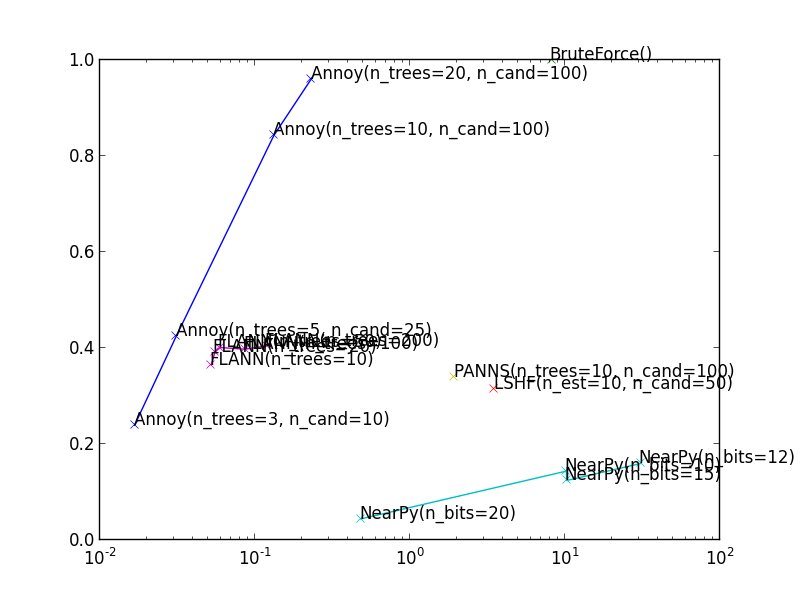
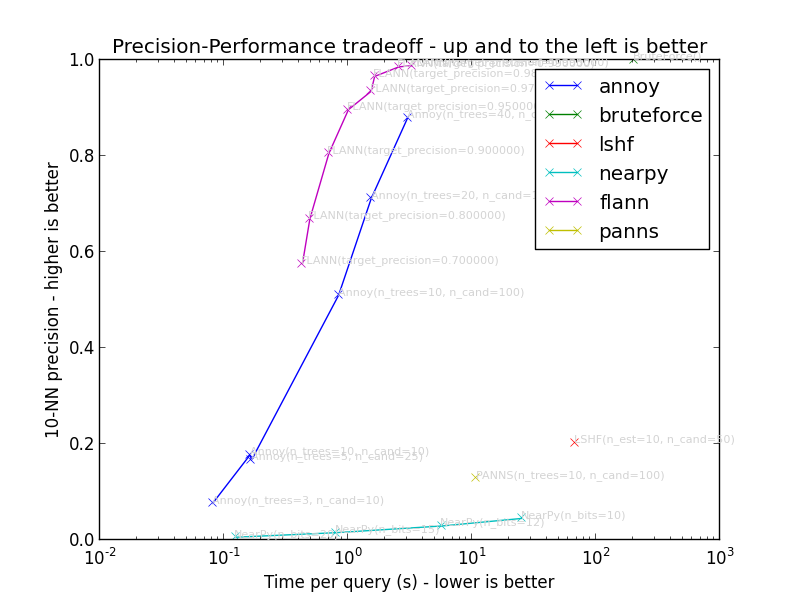
better plot and more data

diff --git a/plot.py b/plot.py
@@ -12,13 +12,15 @@ for algo, data in all_data.iteritems():
     xs = [t[-2] for t in data]
     ys = [t[-1] for t in data]
     ls = [t[0] for t in data]
-    plt.plot(xs, ys, 'x-', )
+    plt.plot(xs, ys, 'x-', label=algo)
     for i, l in enumerate(ls):
-        plt.annotate(ls[i], (xs[i], ys[i]))
+        plt.annotate(ls[i], (xs[i], ys[i]), color='lightgray', fontsize=8)
 
-
-
-plt.gca().set_xscale('log')     
+plt.gca().set_xscale('log')
+plt.gca().set_title('Precision-Performance tradeoff - up and to the left is better')
+plt.gca().set_xlabel('Time per query (s) - lower is better')
+plt.gca().set_ylabel('10-NN precision - higher is better')
+plt.gca().legend()
 
 plt.savefig('plot.png')
 
